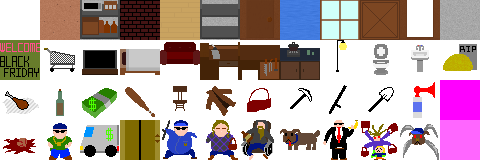
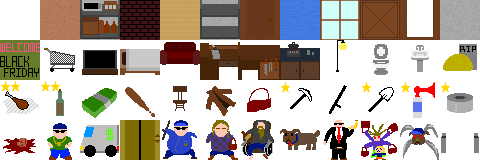
alpha v2

diff --git a/game/Generator.py b/game/Generator.py
@@ -6,8 +6,6 @@ from game.Tile import Tile
 
 
 class Generator:
-    BLOCKED = ['D', 'S', 'X', 'W']
-
     @classmethod
     def generate(cls, x, y, level):
         location = cls(x, y, level)
@@ -24,7 +22,7 @@ class Generator:
         self.display_floor = 'w'
         self.outside_floor = '.'
         self.wall = 'B'
-        self.theme = {'D': 'Door', 'd': 'Gate', 'W': 'Window', 'E': 'Elevator'}
+        self.theme = {'D': 'Door', 'W': 'Window', 'E': 'Elevator'}
         self.appliance = ['Bed', 'Sofa', 'Clothing', 'Toilet', 'Sink', 'Kitchen', 'Crate',
                           'Workshop', 'Lamp', 'Cart', 'TV', 'Chair']
         self.loot = ['Drink', 'Food', 'Shovel', 'Pickaxe', 'Airhorn', 'Bat', 'Money']
@@ -74,13 +72,15 @@ class Generator:
                     location.tiles[self_y][self_x].set_terrain(background)
                     r = Factory.make(terrain, location.get_tile(self_x, self_y))
                     if r.name == 'Van':
-                        r.tags.set('req', self.level * 2 + 1)
+                        r.tags.set('req', self.level * 3)
                         r.update_display_level()
                     elif r.name == 'K9Alpha':
-                        r.tags.increment('L', self.level * 2)
+                        r.tags.increment('L', self.level)
                     elif r.name == 'Elevator':
                         r.tags.increment('L', self.level)
                         r.update_display_level()
+                    elif r.name == 'Scanner':
+                        r.tags.set('v', self.level - 1)
                 else:
                     location.tiles[self_y][self_x].set_terrain(terrain)
         return location
@@ -153,11 +153,15 @@ class Generator:
         return estate, garden
 
     def build_entrance(self):
+        if self.level < 2:
+            gate = 'Gate'
+        else:
+            gate = 'Scanner'
         for x in range(6):
             for y in range(8):
                 if x == 5 or y == 7:
                     if x == 3:
-                        self.str_map[y][x] = 'd'
+                        self.str_map[y][x] = gate
                     else:
                         rand = self.random.randint(1, 16)
                         if rand == 1:
@@ -170,7 +174,7 @@ class Generator:
             for y in range(8):
                 if x == self.width - 6 or y == 7:
                     if x == self.width - 4:
-                        self.str_map[y][x] = 'd'
+                        self.str_map[y][x] = gate
                     else:
                         rand = self.random.randint(1, 16)
                         if rand == 1:
@@ -179,7 +183,11 @@ class Generator:
                             self.str_map[y][x] = self.wall
                 else:
                     self.str_map[y][x] = self.outside_floor
-        self.str_map[4][3] = 'Van'
+        if self.level == 1:
+            self.str_map[2][3] = 'Van'
+            self.str_map[6][3] = 'Food'
+        else:
+            self.str_map[4][3] = 'Van'
         self.str_map[8][3] = 'm'
         self.str_map[3][self.width - 4] = 'E'
 
@@ -226,7 +234,7 @@ class Generator:
                 for x in range(estate[0] + 1, estate[2] - 1):
                     self.str_map[y][x] = self.appliance[self.random.randint(0, len(self.appliance) - 1)]
         elif buff == 2:
-            if self.random.randint(0, 2) == 0:
+            if self.random.randint(0, 1) == 1:
                 self.str_map[cy][cx] = 'Drink'
             else:
                 self.str_map[cy][cx] = 'Food'

diff --git a/game/Unit.py b/game/Unit.py
@@ -98,14 +98,15 @@ class Unit(Item):
                     i.remove()
                 self.sound('hit')
                 front.set_terrain('b')
+                self.delay = 4
             elif self.attack(front):
                 return
-            speed = self.tags.get('spd', 0) + 4
+            speed = self.tags.get('spd', 0) + 5
             if front.type < 10:
                 speed += front.type
             if speed < 10:
                 if self.move_toward(self.direction):
-                    self.delay = max(1, speed)
+                    self.delay += max(1, speed)
                     if not self.grab():
                         self.sound('step')
 
@@ -135,23 +136,28 @@ class Unit(Item):
                 if thing.obstruct_type == 4:
                     self.sound('grab')
                     self.wield(thing)
-                    self.delay *= 2
+                    self.delay += 4
                     return True
                 elif thing.name == 'Van' and self.weapon:
                     thing.supply(self.weapon)
                     self.weapon = None
                     self.update_display_level()
-                elif not self.weapon or self.weapon.name != 'Pickaxe':
-                    if thing.name == 'Food':
+                else:
+                    if thing.name == 'Ducttape' and self.weapon and self.weapon.removed == 0:
+                        self.sound('buff')
+                        thing.remove()
+                        self.weapon.tags.increment('L', 1)
+                        self.delay += 4
+                        return True
+                    elif thing.name == 'Food':
                         self.sound('buff')
                         thing.remove()
                         self.tags.increment('L', 1)
-                        self.update_display_level()
-                        self.delay *= 2
+                        self.delay += 4
                         return True
                     elif thing.name == 'Drink':
                         self.sound('buff')
                         thing.remove()
                         self.tags.increment('spd', -1, add=True)
-                        self.delay *= 2
+                        self.delay += 4
                         return True

diff --git a/game/Factory.py b/game/Factory.py
@@ -1,5 +1,5 @@
 from game import Global
-from game.AI import Cop, Elevator, Shopper
+from game.AI import Cop, Elevator, Shopper, Scanner
 from game.Hero import Hero, Van
 from game.Item import Item
 from game.Prop import Prop
@@ -27,22 +27,24 @@ class Factory:
             'Bag': [Item, 'g_6x2', ['L:1', 'ob:4']],
             'Pickaxe': [Item, 'g_7x2', ['L:3', 'ob:4']],
             'Nightstick': [Item, 'g_8x2', ['L:1', 'ob:4']],
-            'Shovel': [Item, 'g_9x2', ['L:0', 'ob:4']],
+            'Shovel': [Item, 'g_9x2', ['L:2', 'ob:4']],
             'Airhorn': [Item, 'g_10x2', ['L:2', 'ob:5']],
+            'Ducttape': [Prop, 'g_11x2', ['ob:0']],
             'Chair': [Item, 'g_4x2', ['L:2', 'ob:4']],
             'Bat': [Item, 'g_3x2', ['L:5', 'ob:4']],
             'Money': [Item, 'g_2x2', ['L:9', 'ob:4']],
             'Corpse': [Item, 'g_0x3', ['L:1', 'ob:3']],
-            'Player': [Hero, 'g_1x3', ['L:2', 'ob:3', 'R:1']],
+            'Player': [Hero, 'g_1x3', ['L:1', 'ob:3', 'R:1']],
             'Van': [Van, 'g_2x3', ['s:0', 'req:3', 'ob:0']],
-            'Elevator': [Elevator, 'g_3x3', ['L:9', 'ob:3']],
+            'Elevator': [Elevator, 'g_3x3', ['L:8', 'ob:3']],
             'Shopper': [Shopper, 'g_5x3', ['L:1', 'ob:3', 'loot:Bag']],
-            'Shoppest': [Shopper, 'g_9x3', ['L:33', 'ob:3', 'loot:Food']],
-            'Hobo': [Shopper, 'g_6x3', ['L:8', 'ob:3']],
+            'Shoppest': [Shopper, 'g_9x3', ['L:33', 'spd:-4', 'ob:3', 'loot:Money']],
+            'Hobo': [Shopper, 'g_6x3', ['L:8', 'spd:2', 'ob:3']],
             'Dog': [Cop, 'g_7x3', ['L:2', 'spd:-2', 'ob:3']],
-            'Agent': [Cop, 'g_8x3', ['L:9', 'spd:-1', 'ob:3']],
+            'Agent': [Cop, 'g_8x3', ['L:50', 'spd:1', 'ob:3', 'loot:Elevator']],
             'Cop': [Cop, 'g_4x3', ['L:3', 'ob:3', 'loot:Nightstick']],
-            'K9Alpha': [Cop, 'g_10x3', ['L:10', 'spd:-7', 'ob:3', 'loot:Food']]
+            'Scanner': [Scanner, 'g_11x3', ['v:1', 'ob:0']],
+            'K9Alpha': [Cop, 'g_10x3', ['L:9', 'spd:-7', 'ob:3', 'loot:Dog']]
             }
 
     @staticmethod

diff --git a/game/Hero.py b/game/Hero.py
@@ -19,6 +19,8 @@ class Hero(Unit):
             else:
                 self.wield(None)
                 self.tags.increment('R', 1)
+                if self.tags.get('spd', 0) < 0:
+                    self.tags.increment('spd', 1)
             Global.main.end = True
         elif self.location.mode > 0:
             self.location.mode += 1
@@ -36,10 +38,10 @@ class Hero(Unit):
                 self.vec += (front - self.pos) * 15
                 self.location.play_sound('hit')
                 if thing.get_level() <= self.get_level():
-                    if thing.name == 'Corpse' and self.weapon and self.weapon.name == 'Shovel':
-                        from game.Factory import Factory
-                        Factory.make('Grave', thing.pos)
-                        self.weapon.tags.increment('L', 1)
+                    if self.weapon and self.weapon.name == 'Shovel':
+                        if thing.name == 'Corpse':
+                            from game.Factory import Factory
+                            Factory.make('Grave', thing.pos)
                     elif thing.name == 'Airhorn':
                         to_remove = []
                         from game.AI import Cop
@@ -73,8 +75,10 @@ class Van(Item):
         if s >= req:
             self.display_level.set('Round ' + str(Global.player.tags.get('R')) + ' Clear!')
             self.location.mode = 1
-        else:
+        elif s > 0:
             self.display_level.set(str(s) + ' / ' + str(req))
+        else:
+            self.display_level.set('Bring me the goods!')
 
     def supply(self, item):
         self.tags.increment('s', item.get_level())

diff --git a/game/AI.py b/game/AI.py
@@ -32,6 +32,28 @@ class Shopper(Unit):
         return r
 
 
+class Scanner(Unit):
+    def __init__(self, location):
+        super().__init__(location)
+
+    def add(self):
+        r = super().add()
+        Turn.add(1, self.turn)
+        return r
+
+    def remove(self):
+        Item.remove(self)
+        Turn.remove(self.turn)
+
+    def turn(self):
+        threshold = self.tags.get('v', 0)
+        for i in self.pos.things.copy():
+            if i != self and isinstance(i, Unit) and i.weapon and i.weapon.get_level() <= threshold:
+                i.weapon.remove()
+                i.wield(None)
+        return True
+
+
 class Elevator(Unit):
     def __init__(self, location):
         super().__init__(location)

diff --git a/Execute.py b/Execute.py
@@ -38,7 +38,7 @@ class Execute(pyglet.window.Window):
             Global.player.relocate(3, 5)
         else:
             Global.land = Generator.generate(30, 12, 1)
-            Global.player = Factory.make_user(Global.land.tiles[5][3])
+            Global.player = Factory.make_user(Global.land.tiles[3][3])
         Turn.add(0, Global.player.turn)
         Turn.add(0, Global.map_view.update_region)
         Turn.add(0, Global.map_view.turn)

diff --git a/game/Tile.py b/game/Tile.py
@@ -20,6 +20,7 @@ class Tile(Space):
                   'b': ['floor', 'g_11x0', 0],
                   'w': ['wood', 'g_4x0', 0],
                   'm': ['mat', 'g_0x1', 0],
+                  'x': ['slow', 'g_11x2', 2],
                   'C': ['crate', 'g_2x1', 10],
                   ':': ['shelf', 'g_5x0', 11],
                   ';': ['shelf2', 'g_2x0', 10]
